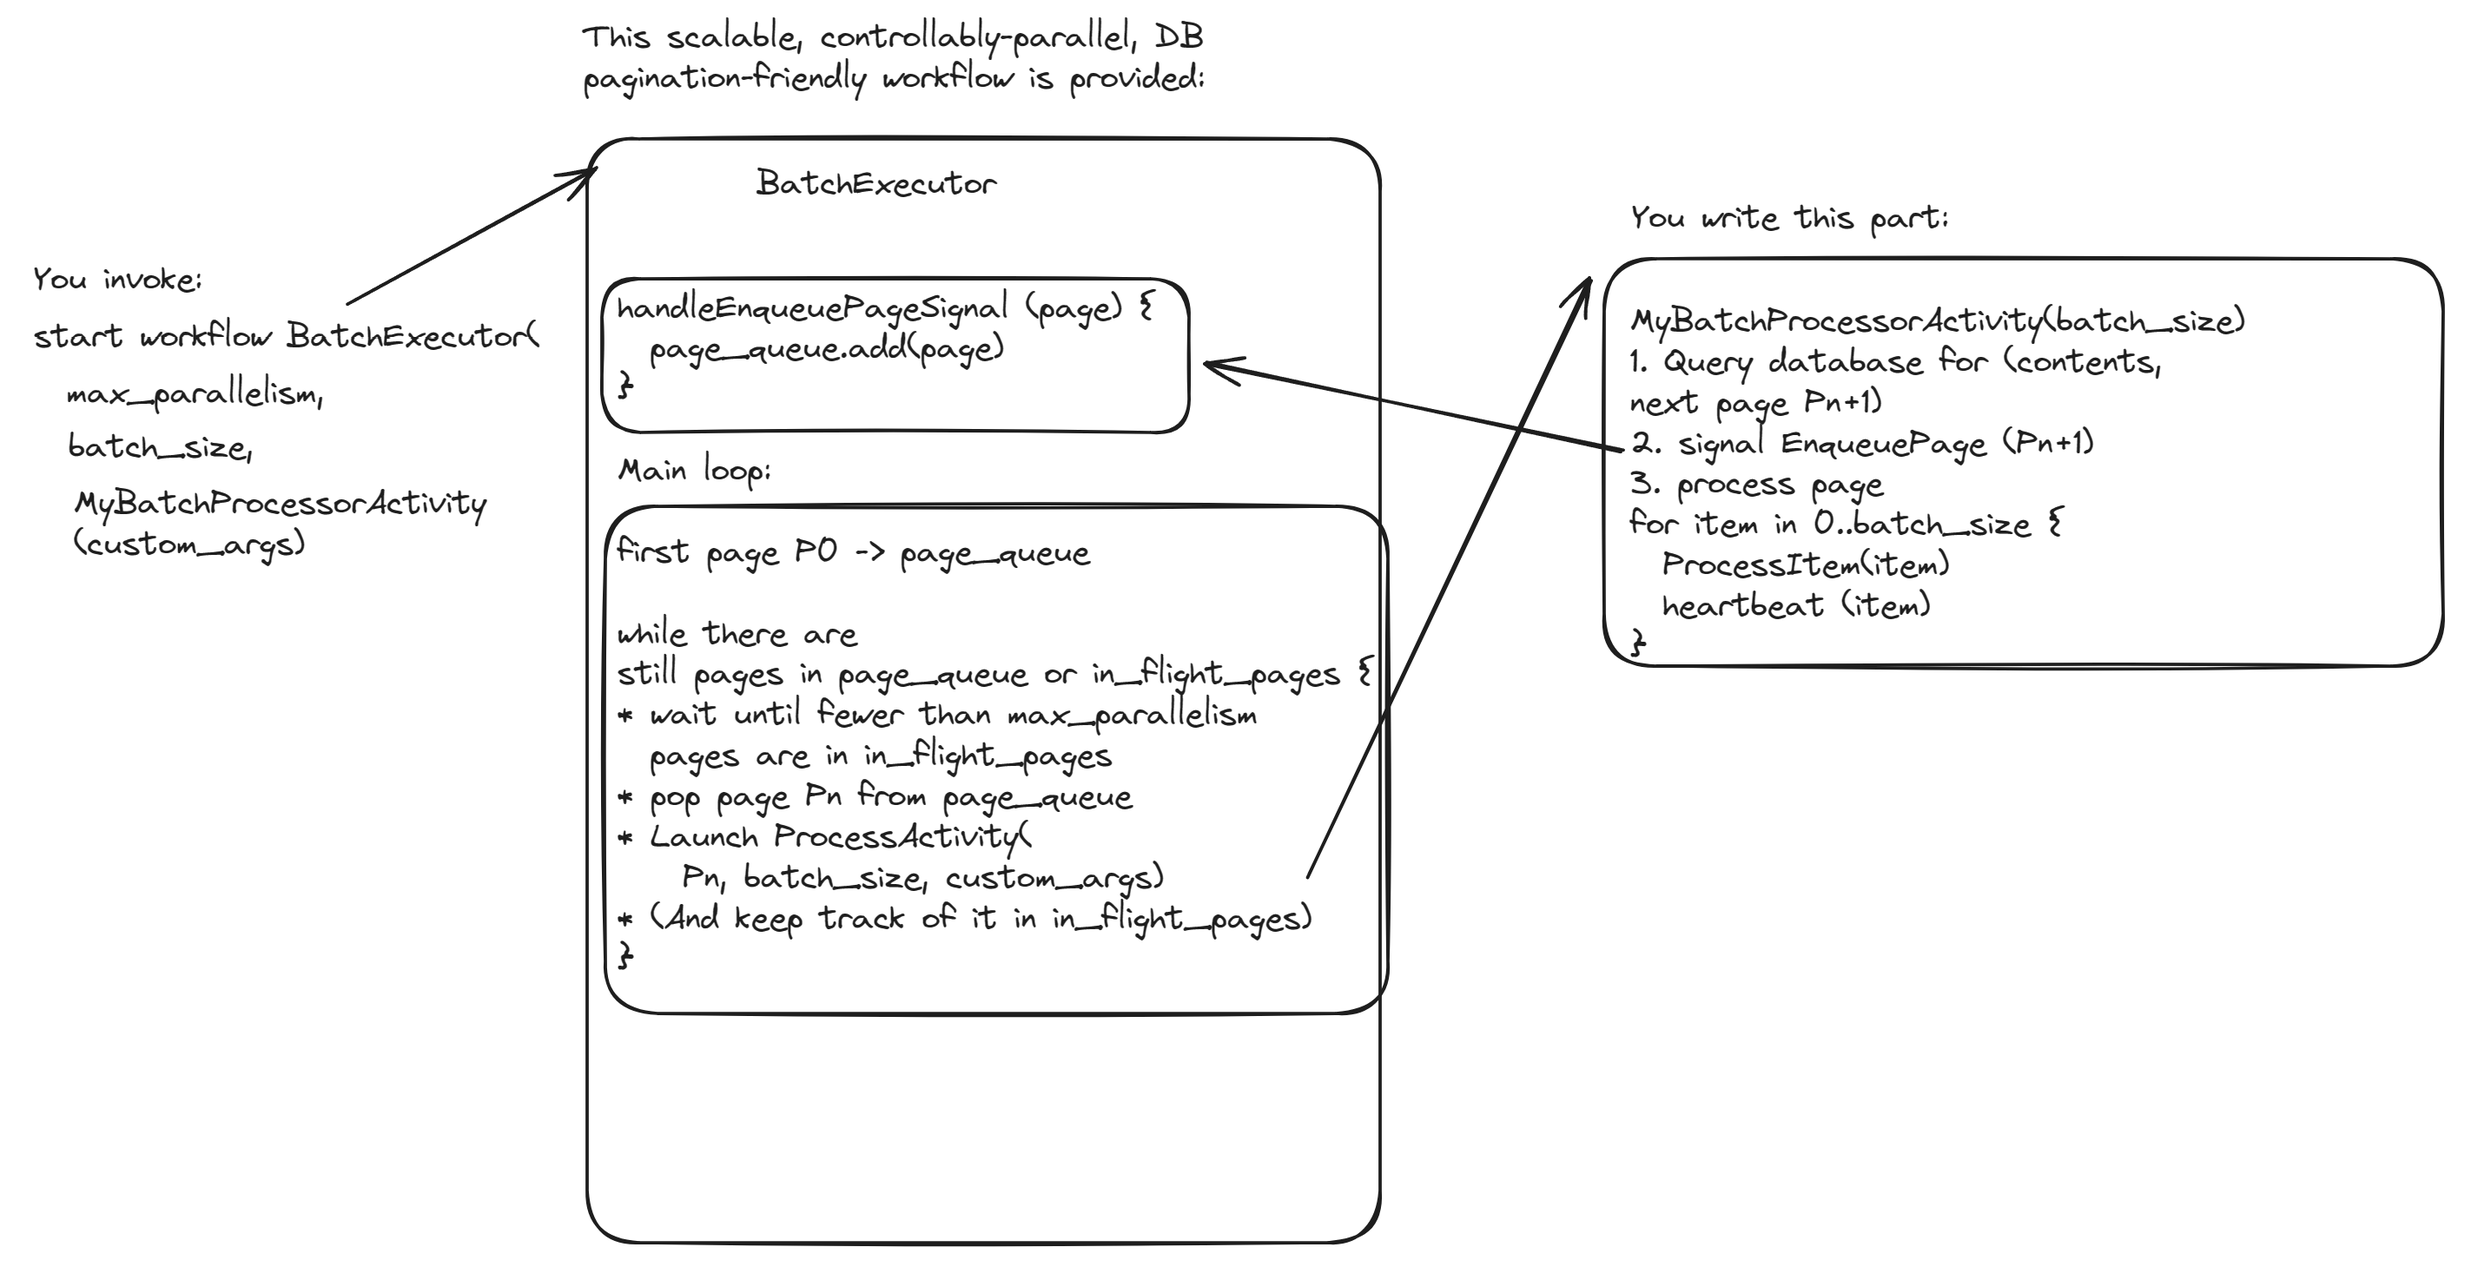
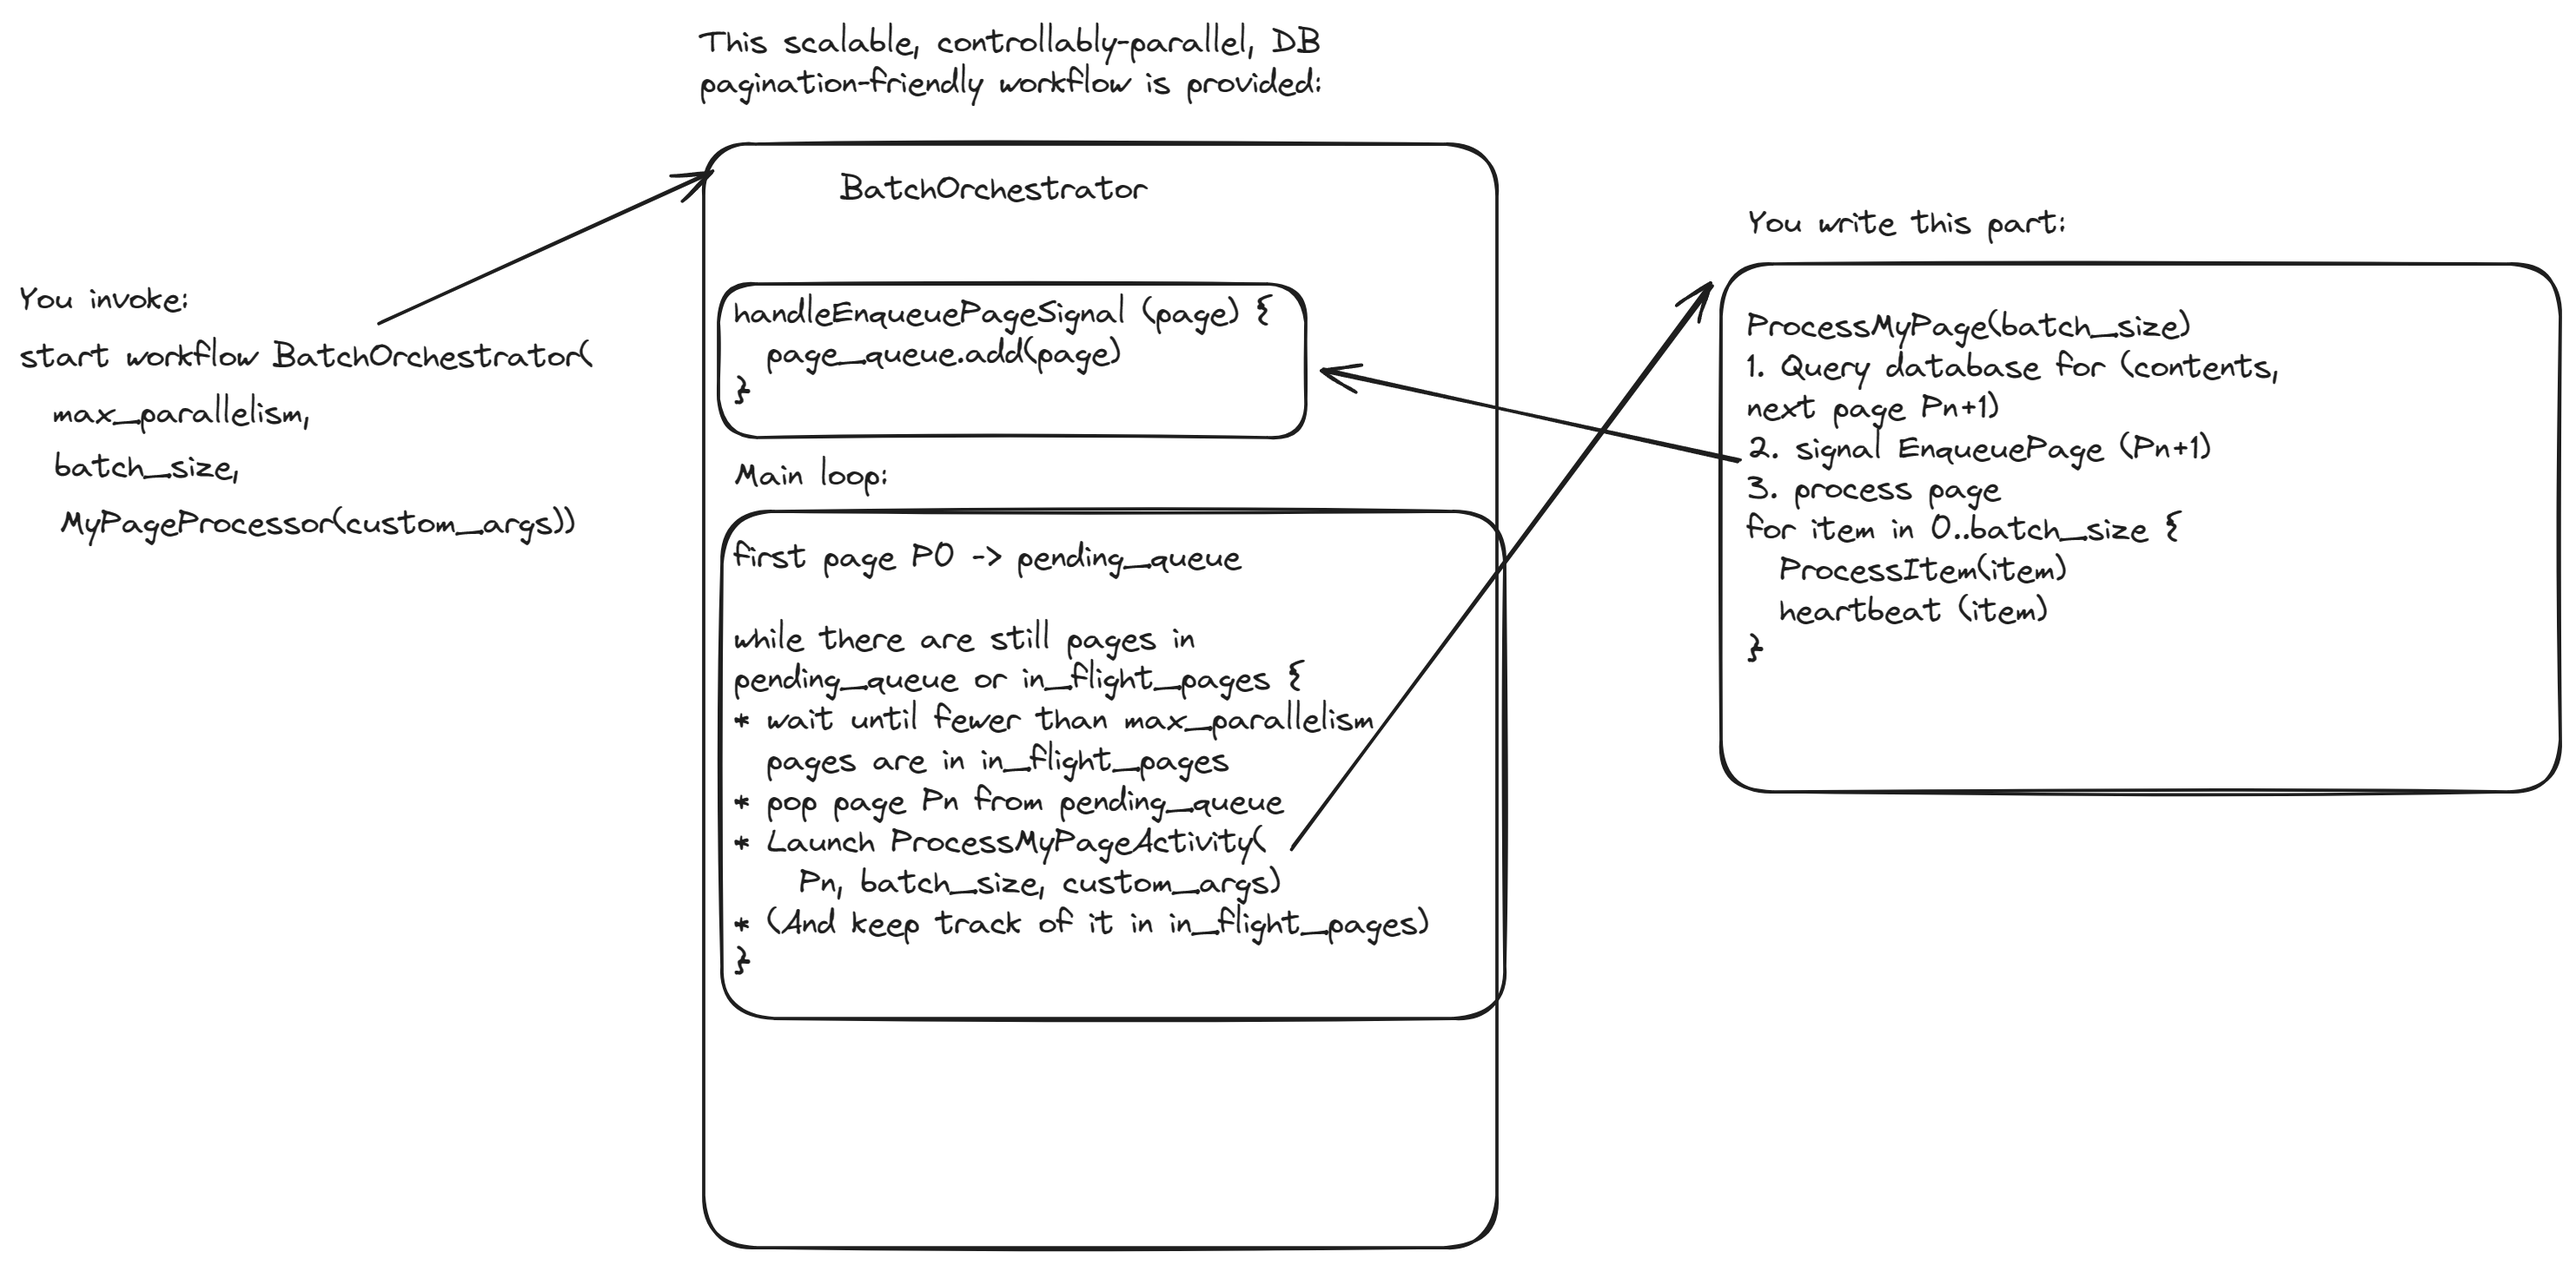
executor->orchestrator; Call user-provided page processor via a registry

diff --git a/python/batch_orchestrator.py b/python/batch_orchestrator.py
@@ -1,29 +1,31 @@
 from asyncio import Future
 from dataclasses import dataclass
 from datetime import timedelta
+import importlib
 from temporalio import workflow, activity
 from temporalio.client import Client
 from typing import Dict, Generic, List, Optional, TypeVar
+import python.batch_page_processor_context 
 
-from batch_executor_page import BatchExecutorPage, MyCursor
-
+from python.batch_orchestrator_page import BatchOrchestratorPage, MyCursor
+from python.batch_page_processor_registry import list_page_processors, registry as batch_page_processor_registry
 
 
 @dataclass 
-class BatchExecutorInput:
+class BatchOrchestratorInput:
     batch_name: str
     cursor: Optional[MyCursor] = None
 
 # Paginates through a large dataset and executes it with controllable parallelism.  
 @workflow.defn
-class BatchExecutor:
+class BatchOrchestrator:
 
     def __init__(self):
         self.signalAddedPages = []
 
-    def enqueuePage(self, pendingPages: List[BatchExecutorPage], BatchExecutorPage: BatchExecutorPage):
-        workflow.logger.info(f"Enqueuing page request for cursor {BatchExecutorPage.cursor}")
-        pendingPages.append(BatchExecutorPage)
+    def enqueuePage(self, pendingPages: List[BatchOrchestratorPage], BatchOrchestratorPage: BatchOrchestratorPage):
+        workflow.logger.info(f"Enqueuing page request for cursor {BatchOrchestratorPage.cursor}")
+        pendingPages.append(BatchOrchestratorPage)
         pass
 
     def workIsComplete(self, inFlightPages, pendingPages, maxPages, numLaunchedPages) -> bool:
@@ -38,19 +40,19 @@ class BatchExecutor:
         
     
     @workflow.signal
-    async def signalAddPage(self, page: BatchExecutorPage) -> None:
+    async def signalAddPage(self, page: BatchOrchestratorPage) -> None:
         self.signalAddedPages.append(page)
 
     def isNewPageReady(
             self, 
             inFlightPages: Dict[int, Future[MyCursor]], 
-            pendingPages: List[BatchExecutorPage], 
+            pendingPages: List[BatchOrchestratorPage], 
             maxPages: int, numLaunchedPages: int, 
             maxParallelism: int) -> bool:
         return len(inFlightPages) < maxParallelism and len(pendingPages) > 0 and numLaunchedPages < maxPages
     
     @workflow.run
-    async def run(self, input: BatchExecutorInput):
+    async def run(self, input: BatchOrchestratorInput):
         workflow.logger.info("Starting batch executor")
 
         startCursor: MyCursor = input.cursor or MyCursor(0)
@@ -61,7 +63,7 @@ class BatchExecutor:
         numLaunchedPages = 0
         inFlightPages : Dict[int, Future[MyCursor]] = {}
         pendingPages = []
-        self.enqueuePage(pendingPages, BatchExecutorPage(startCursor, pageSize))
+        self.enqueuePage(pendingPages, BatchOrchestratorPage(startCursor, pageSize))
         while not self.workIsComplete(inFlightPages, pendingPages, maxPages, numLaunchedPages):
             # Wake up (or continue) when an activity signals us with more work, when it completes, or when 
             # we're ready to process a new page.
@@ -74,21 +76,21 @@ class BatchExecutor:
             elif self.isNewPageReady(inFlightPages, pendingPages, maxPages, numLaunchedPages, maxParallelism):
                 numLaunchedPages += 1
                 nextPage = pendingPages.pop()
-                await workflow.execute_activity(my_process_batch, args=[nextPage], start_to_close_timeout=timedelta(minutes=5))
+                await workflow.execute_activity(process_batch, args=['process_fakedb_page', nextPage], start_to_close_timeout=timedelta(minutes=5))
         workflow.logger.info(f"Batch executor completed {numLaunchedPages} pages")
         return None
 
 
+# convert batchPageProcessorName to a function and call it with the page
 @activity.defn
-async def my_process_batch(pageRequest: BatchExecutorPage):
-    if pageRequest.cursor.i == 0:
-        workflowClient = await Client.connect("localhost:7233")
-        workflow_info = activity.info()
-        parentWorkflow = workflowClient.get_workflow_handle(workflow_info.workflow_id, run_id = workflow_info.workflow_run_id)
-        # signal the parent workflow to start the next page
-        await parentWorkflow.signal(
-            BatchExecutor.signalAddPage, 
-            BatchExecutorPage(MyCursor(pageRequest.cursor.i + pageRequest.pageSize), pageRequest.pageSize))
-        print(f"Processing page {pageRequest}")
-    print(f"Signaled the workflow {pageRequest}")
-    # Sleep for a bit to simulate work
+async def process_batch(batchPageProcessorName: str, page: BatchOrchestratorPage):
+    context = await python.batch_page_processor_context.BatchPageProcessorContext(page=page, workflowInfo=activity.info()).async_init()
+    userProvidedActivity = batch_page_processor_registry.get(batchPageProcessorName)
+    if not userProvidedActivity:
+        raise Exception(
+            f"You passed batch processor name {batchPageProcessorName} into the BatchOrchestrator, but it was not registered on " +
+            f"your activity worker.  Please annotate it with @page_processor and make sure its module is imported. " + 
+            "Available functions: {list_page_processors()}")
+    await userProvidedActivity(context)
+    pass
+

diff --git a/python/batch_page_processor_context.py b/python/batch_page_processor_context.py
@@ -1,0 +1,31 @@
+from __future__ import annotations
+from typing import Optional
+from temporalio.client import Client
+
+import python.batch_orchestrator
+
+class BatchPageProcessorContext:
+    def __init__(self, *, page, workflowInfo):
+        self.page = page
+        self.workflowInfo = workflowInfo
+        self.workflowClient: Optional[Client] = None
+
+    async def async_init(self)-> BatchPageProcessorContext:
+        self.workflowClient = await Client.connect("localhost:7233")
+        self.parentWorkflow = self.workflowClient.get_workflow_handle(
+            self.workflowInfo.workflow_id, run_id = self.workflowInfo.workflow_run_id)
+
+        return self
+
+    def getPage(self):
+        return self.page
+    
+    async def enqueueNextPage(self, page):
+        assert self.parentWorkflow is not None, \
+            ("BatchPageProcessorContext.async_init() was not called.  This class should only be " +
+            "instantiated by the temporal-batch library.")
+        await self.parentWorkflow.signal(
+            python.batch_orchestrator.BatchOrchestrator.signalAddPage, 
+            page
+        )
+    

diff --git a/python/sample/run_worker.py b/python/sample/run_worker.py
@@ -1,16 +1,16 @@
 import asyncio
-import concurrent.futures
+import sys, os
+print(os.path.join(os.path.dirname(sys.path[0]), '../'))
+sys.path.append(os.path.join(os.path.dirname(sys.path[0]), '../'))
+
 from temporalio.client import Client
 from temporalio.worker import Worker
 
-# Import the activity and workflow from our other files
-from batch_executor import BatchExecutor, my_process_batch
-
-import asyncio
 import logging
 
-from temporalio.client import Client
-from temporalio.worker import Worker
+from python.batch_orchestrator import BatchOrchestrator, process_batch
+# Import our registry of page processors
+import process_fakedb_page
 
 interrupt_event = asyncio.Event()
 
@@ -23,8 +23,8 @@ async def main():
     async with Worker(
         client,
         task_queue="my-task-queue",
-        activities=[my_process_batch],
-        workflows=[BatchExecutor],
+        activities=[process_batch],
+        workflows=[BatchOrchestrator],
     ):
         # Wait until interrupted
         logging.info("Worker started, ctrl+c to exit")

diff --git a/python/sample/start_batch_executor.py b/python/sample/start_batch_executor.py
@@ -2,8 +2,11 @@ import asyncio
 from dataclasses import dataclass
 from typing import Generic
 from temporalio.client import Client
+import sys, os
+print(os.path.join(os.path.dirname(sys.path[0]), '../'))
+sys.path.append(os.path.join(os.path.dirname(sys.path[0]), '../'))
 
-from batch_executor import BatchExecutor, BatchExecutorInput
+from python.batch_orchestrator import BatchOrchestrator, BatchOrchestratorInput
 
 
 async def main():
@@ -11,7 +14,7 @@ async def main():
     client = await Client.connect("localhost:7233")
 
     # Execute the batch executor workflow
-    result = await client.execute_workflow(BatchExecutor.run, BatchExecutorInput("my name"), id="my-workflow-id", task_queue="my-task-queue")
+    result = await client.execute_workflow(BatchOrchestrator.run, BatchOrchestratorInput("my name"), id="my-workflow-id", task_queue="my-task-queue")
 
     print(f"Result: {result}")
 

diff --git a/python/sample/process_fakedb_page.py b/python/sample/process_fakedb_page.py
@@ -1,0 +1,17 @@
+from asyncio import sleep
+from python.batch_orchestrator_page import BatchOrchestratorPage, MyCursor
+from python.batch_page_processor_context import BatchPageProcessorContext
+from python.batch_page_processor_registry import page_processor
+
+
+@page_processor
+async def process_fakedb_page(context: BatchPageProcessorContext):
+    page = context.getPage()
+    if page.cursor.i == 0:
+        await context.enqueueNextPage(
+            BatchOrchestratorPage(MyCursor(page.cursor.i + page.pageSize), page.pageSize)
+        )
+        print(f"Signaled the workflow {page}")
+    print(f"Processing page {page}")
+    # Sleep for a bit to simulate work
+    await sleep(1)

diff --git a/python/batch_orchestrator_page.py b/python/batch_orchestrator_page.py
@@ -1,0 +1,17 @@
+from dataclasses import dataclass
+from typing import Generic, TypeVar
+
+
+TCursor = TypeVar("TCursor")
+
+@dataclass
+class MyCursor:
+    i: int
+
+# In your batch jobs, you'll chunk them into pages of work that run in parallel with one another. 
+# Each page, represented by this class, processes in series.
+# Choose a page size that can run in under five minutes.
+@dataclass
+class BatchOrchestratorPage:
+    cursor: MyCursor
+    pageSize: int

diff --git a/python/batch_page_processor_registry.py b/python/batch_page_processor_registry.py
@@ -1,0 +1,9 @@
+registry = {}
+
+def page_processor(page_processor_function):
+    print("Moo!!!")
+    registry[page_processor_function.__name__] = page_processor_function
+    return page_processor_function
+
+def list_page_processors():
+    return list(registry.keys())

diff --git a/batch_executor_page.py b/batch_executor_page.py
@@ -12,6 +12,6 @@ class MyCursor:
 # Each page, represented by this class, processes in series.
 # Choose a page size that can run in under five minutes.
 @dataclass
-class BatchExecutorPage:
+class BatchOrchestratorPage:
     cursor: MyCursor
     pageSize: int

diff --git a/README.md b/README.md
@@ -8,8 +8,10 @@ It supports
   simply signal the workflow with the next page token before you start processing the results.
 * v1 reliably supports up to approximately 4000 minutes of total execution time.  Please let me know if you want higher scale.
 
-All you have to build is an ![Activity](https://docs.temporal.io/activities) to process manageaable chunks
-See ![Alt text](architecture_diagram.png "Architecture Diagram") 
+All you have to build is an ![Activity](https://docs.temporal.io/activities) to process manageable chunks.
+
+Architecture:
+![Alt text](architecture_diagram.png "Architecture Diagram") 
 
 Currently supported languages
 * Python (depends on https://github.com/temporalio/sdk-python)
